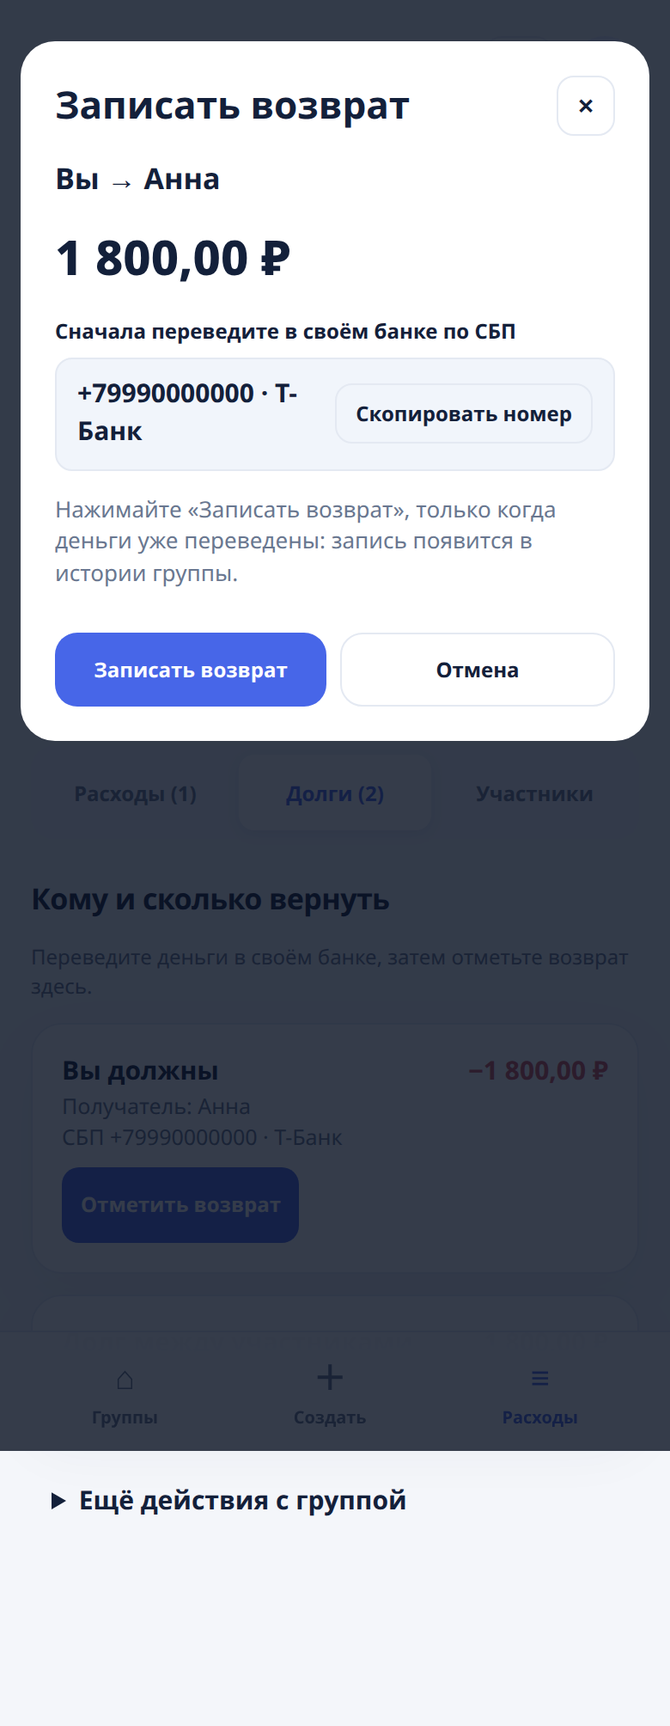
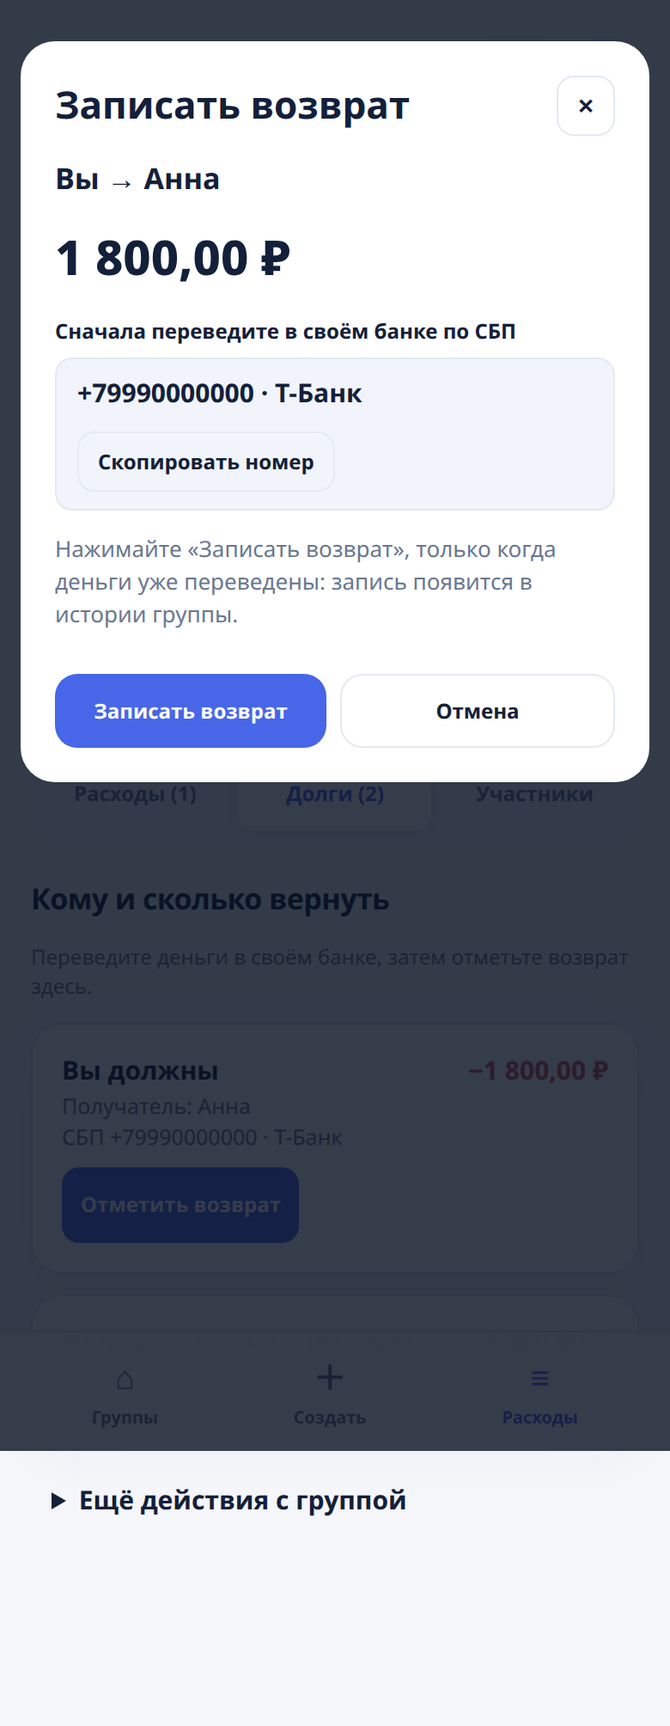
UX redesign round 6b: SBP block never breaks the number, DESIGN.md + README
The SBP phone number broke mid-way (overflow-wrap:anywhere): 3 lines
at 320 px, 2 at 390 px, the copy button squeezing beside it. .settle-sbp
now wraps (flex-wrap:wrap) and the number is nowrap, so when the button
does not fit beside the number it goes to its own line — at 320 and at
390 px alike. Theme tokens untouched; system Back + focus return
re-checked at 320 px (Telegram simulation). Older settle-modal frames
(26/33/39/42/44/45) re-saved with the new layout. README gains the
'Shestoy zakhod' section (full-field verification, FX tolerance, demo
hooks, checks, honest gaps, phone steps); DESIGN.md: R10/R11, §11.2
round-6 results. Checks: shots-round6.mjs 77/77, shots-round6-tg.mjs
35/35; regressions 34/34, 35/35, 21/21, 37/37, 14/14, 51/51, 18/18.

Changed region(s): [[0.0308, 0.2161, 0.9846, 0.4631]]

diff --git a/web/style.css b/web/style.css
@@ -133,8 +133,12 @@ h1[tabindex='-1']:focus { outline: none; }
 /* Second pass (round 2): settle modal, balance addressee, error toasts. */
 .settle-route{font-size:17px;margin:0}
 .settle-amount{font-size:28px;font-weight:800;margin:0;font-variant-numeric:tabular-nums}
-.settle-sbp{display:flex;align-items:center;justify-content:space-between;gap:10px;background:#f0f4fb;border:1px solid #dae3f0;border-radius:10px;padding:10px 12px;font-weight:700;overflow-wrap:anywhere}
+.settle-sbp{display:flex;align-items:center;justify-content:space-between;gap:10px;flex-wrap:wrap;background:#f0f4fb;border:1px solid #dae3f0;border-radius:10px;padding:10px 12px;font-weight:700}
 .settle-sbp .btn{flex:none}
+/* Round 6: the SBP number never breaks mid-way (overflow-wrap:anywhere
+   removed); if the copy button does not fit beside it, it wraps to its
+   own line instead of squeezing the number. */
+.settle-sbp>span{white-space:nowrap}
 .settle-panel .form-hint{font-size:13px;color:#5a6b84}
 .metric .btn{margin-top:10px}
 .allocation-total{margin:8px 0 0;padding-top:8px;border-top:1px solid var(--border);font-size:13px;font-weight:700}

diff --git a/docs/ux-redesign/README.md b/docs/ux-redesign/README.md
@@ -627,3 +627,155 @@ node shots-round2.mjs        # регрессия: 34/34
   ложно блокировать подтверждение.
 - Строка 6 аудита второго мнения (имя/место уже состоящего участника)
   по-прежнему не доделывалась. Тексты бота не переносились.
+
+## Шестой заход — полная проверка сохранения, СБП на 320 px
+
+Снимает ограничение из 5-го захода: поля `notes`/`categoryId` и валютный
+пересчёт теперь сравниваются при проверке правки.
+
+### 1. Проверка правки — по всем сохраняемым полям
+
+В пятом заходе `expenseMatchesPayload` сравнивал только название, сумму,
+плательщика, `splitMode` и доли. Воспроизведённый дефект: меняется только
+комментарий, связь обрывается до записи — проверка находила запись по ID,
+сравниваемые поля совпадали, форма закрывалась с ложным «Трата сохранена»,
+а в хранилище оставался старый комментарий. То же было с категорией.
+
+Новая `expenseMatchDetail` (в `web/app.js`; `expenseMatchesPayload` —
+тонкая обёртка) сравнивает полный набор сохраняемых полей со снимком
+отправленного запроса (`S.uncheckedExpense`): название, сумму в копейках,
+плательщика, `splitMode`, доли (без учёта порядка), комментарий `notes`,
+`categoryId`, `originalCurrency`/`originalAmount`.
+
+- Значения по умолчанию: отсутствующие `notes`/`categoryId` считаются
+  `''`/`0` с обеих сторон, правка без них подтверждается как раньше.
+- Отсутствующее поле: отправлено непустое значение, а в ответе
+  `group_get` этого поля нет — результат «недостаёт поля», никогда не
+  подтверждение. Новый статус `lostUnverifiable`: «Проверить правку не
+  удалось: в ответе сервера нет поля «комментарий»», форма и введённые
+  данные остаются. Проверка не различает прежнюю версию без поля и ответ
+  сервера без поля — оба случая закрываются отказом от подтверждения.
+- Комментарий сравнивается с обрезкой пробелов по краям с обеих сторон
+  (принятая нормализация: серверы обычно обрезают свободный текст;
+  разница только в пробелах не должна вечно блокировать подтверждение).
+- Валютные данные: сервер пересчитывает сумму группы по своему курсу,
+  поэтому отправленные исходные значения (`originalAmount` +
+  `originalCurrency`) сравниваются точно и являются главными, а
+  сохранённая сумма принимается в пределах 1% (+2 копейки) от
+  отправленной. Без другой валюты сумма — прямое отправленное значение
+  и сравнивается строго. Известное ограничение: правка, меняющая только
+  сумму группы у валютной траты меньше чем на допуск, неотличима от
+  пересчёта сервера.
+- Передача `type`/`code` ошибок из пятого захода сохранена
+  (`isNetworkError`, обёртка `Serverless.call` не менялась).
+
+Демо-хуки (только в демо): `?demoMissingField=notes|categoryId|
+originalAmount|originalCurrency` — убирает поле из каждого ответа
+`group_get`; `?demoFxServer=1` — демо-«сервер» пересчитывает валютные
+траты по своему курсу (USD 89.5, EUR 96.2): 100.00 USD, отправленные
+как 9 000,00 ₽, хранятся как 8 950,00 ₽. В симуляции Telegram те же
+режимы — флаги `window.__tgFake.missingField` / `fxServer` /
+`serverlessFail` (`lostEditBefore` / `lostEditAfter`).
+
+### 2. Блок СБП на 320 px
+
+Номер разрывался посередине (`overflow-wrap:anywhere` на `.settle-sbp`):
+на 320 px номер занимал 3 строки, на 390 — 2. Исправлено в
+`web/style.css`: `flex-wrap:wrap` у блока, `white-space:nowrap` у номера,
+`overflow-wrap:anywhere` убрано. Если кнопка «Скопировать номер» не
+помещается рядом с номером, она переходит на отдельную строку — то же
+правило работает и на 390 px. Цвета блока не менялись (токены 5-го
+захода). Системный «Назад» и возврат фокуса перепроверены на 320 px
+(симуляция Telegram).
+
+### Скриншоты шестого захода
+
+- `before/47-sbp-320-*` и `before/47-sbp-390-light` — блок СБП до
+  исправления (номер в 2–3 строки); `after/47-sbp-320-*`,
+  `after/47-sbp-390-light` — после (номер одной строкой, кнопка
+  отдельной строкой); `after/47-tg-sbp-320-*` — то же через `themeParams`.
+- `after/46-notes-check-before-390-light` — проверка правки комментария
+  после обрыва до записи: статус «в ответе сервера нет поля
+  «комментарий»», форма открыта, новый комментарий в поле.
+- `after/46-missing-field-390-light` — ответ без поля при состоявшейся
+  записи: тот же статус, форма открыта.
+- `after/46-fx-server-amount-390-light` — подтверждённая валютная
+  правка: в форме хранимая сумма 8950.00 ₽ при исходных 100.00 USD,
+  тост «Трата сохранена».
+
+### Проверки шестого захода
+
+```text
+# сборка (до/после каждого коммита):
+npm run build
+# сервер (из корня репозитория, после npm run build):
+python -m http.server 8000 --bind 127.0.0.1 --directory dist
+# из ~/workspace/spleet-shots/ (Chromium headless shell 1187):
+node shots-round6.mjs        # демо: 77/77
+node shots-round6-tg.mjs     # симуляция Telegram: 35/35
+node shots-round5.mjs        # регрессия: 51/51
+node shots-round5-tg.mjs     # регрессия: 18/18
+node shots-round4.mjs        # регрессия: 37/37
+node shots-round4-tg.mjs     # регрессия: 14/14
+node shots-round3.mjs        # регрессия: 35/35
+node shots-round3-tg.mjs     # регрессия: 21/21
+node shots-round2.mjs        # регрессия: 34/34
+```
+
+Дефекты сначала воспроизведены проверками на неисправленном коде:
+демо 51/77, симуляция 20/35. Демо: комментарий до записи ×4, категория
+до записи ×3, валютная правка после записи при серверной сумме ×4,
+ответ без поля ×10 (комментарий ×6, категория ×4), блок СБП ×5.
+Симуляция: комментарий до записи ×3, ответ без поля ×4, валютная правка
+×4, блок СБП ×4. После исправлений — все зелёные. Три ошибки найдены в
+самих проверках, а не в коде, и исправлены в скриптах до записи
+результатов: чтение полей падало с 30-секундным таймаутом, когда форма
+была закрыта ложным подтверждением (теперь чтение через `evaluate` с
+`null` при отсутствии); ожидание списка после проверки бросало
+исключение при отказе подтвердить (теперь допуск); `norm()` вызывался
+внутри `page.evaluate`, где его нет (нормализация перенесена в Node).
+В каждом прогоне единственная ошибка консоли — 404 `/favicon.ico`
+(было и до).
+
+Замечено при воспроизведении: обрыв до записи у валютной траты ловился
+ещё старой проверкой — через строгое сравнение суммы группы (5 400,00 ₽
+против отправленных 9 000,00 ₽). Дефект валютного сценария — ложный
+отказ после записи при серверной сумме, а не ложное подтверждение.
+
+### Что честно не сделано в шестом заходе
+
+- Реальный WebView не проверялся (нет телефона в этой сессии) — см.
+  шаги ручной проверки ниже. Обёртка `Serverless.call` проверена через
+  фейковый `Serverless` в симуляции, а не через настоящий сервер
+  Telegram; демо-«сервер» хранит запрос почти дословно (кроме хука
+  `demoFxServer`), настоящий сервер не вызывался.
+- Допуск 1% для суммы валютной траты и обрезка пробелов комментария —
+  принятые нормализации, а не измеренное поведение настоящего сервера.
+  Если реальный курс сервера отличается от клиентского больше чем на 1%,
+  валютные правки останутся неподтверждёнными (форма открыта, повторная
+  отправка не поможет — допуск придётся поднять). Если сервер трактует
+  `categoryId: 0` или пустой `notes` как «оставить прежнее», правки,
+  ставящие «Прочее» или очищающие комментарий, тоже останутся
+  неподтверждёнными: проверка исходит из того, что сервер хранит
+  отправленное значение дословно, как демо-адаптер.
+- Правка, меняющая только сумму группы у валютной траты меньше чем на
+  1%, неотличима от пересчёта сервера и подтверждается в пределах
+  допуска (см. §1).
+- Строка 6 аудита второго мнения (имя/место уже состоящего участника)
+  по-прежнему не доделывалась. Тексты бота не переносились.
+
+### Ручная проверка на телефоне (реальный WebView, 6-й заход)
+
+Шаги из 3-го захода плюс новые случаи (всё на тестовой группе):
+
+1. Откройте трату «Ужин у моря», добавьте комментарий, включите
+   авиарежим, нажмите «Сохранить изменения», затем «Проверить,
+   сохранилась ли трата»: форма остаётся открытой, сообщения об успехе
+   нет, комментарий в поле сохранён.
+2. То же с категорией (выберите «Еда и кафе») и с другой валютой
+   (100.00 USD, сумма 9 000,00 ₽): после обрыва до записи форма
+   остаётся открытой.
+3. Откройте окно возврата на 320 px в светлой и тёмной теме: номер СБП
+   одной строкой, кнопка «Скопировать номер» — отдельной строкой.
+4. В окне возврата нажмите системную «Назад»: окно закрывается, фокус
+   возвращается на кнопку «Рассчитаться», запись не создаётся.

diff --git a/docs/ux-redesign/DESIGN.md b/docs/ux-redesign/DESIGN.md
@@ -140,7 +140,7 @@ Safe-area: `max(env(safe-area-inset-*), var(--tg-inset-*))` для `.page` и `.
 
 Решения захода, зафиксированные в этом файле:
 
-- **Проверка сохранения — по содержимому, не по ID** (§5): `expenseMatchesPayload` сравнивает название, сумму в копейках, плательщика, `splitMode` и доли по участникам (без учёта порядка). Найдена старая версия — новый статус «прежняя версия», форма остаётся открытой. Неподтверждённый результат всегда трактуется как неподтверждённый, а не как успех.
+- **Проверка сохранения — по содержимому, не по ID** (§5): `expenseMatchDetail` сравнивает полный набор сохраняемых полей со снимком отправленного запроса: название, сумму в копейках, плательщика, `splitMode`, доли (без учёта порядка), комментарий `notes` (с обрезкой пробелов), `categoryId` (0 по умолчанию), `originalCurrency`/`originalAmount`. Отсутствующее в ответе поле — неподтверждённый результат, никогда не подтверждение (новый статус «не удалось проверить: нет поля»). Сумма валютной траты допускается с отклонением до 1% (+2 копейки) от отправленной, так как сервер пересчитывает её по своему курсу; без другой валюты сумма сравнивается строго. Найдена старая версия — статус «прежняя версия», форма остаётся открытой. Неподтверждённый результат всегда трактуется как неподтверждённый, а не как успех.
 - **Сетевой сбой — по типу ошибки, не по тексту** (§5): обёртка `Serverless.call` передаёт `type`/`code` в обработчик; `isNetworkError` смотрит на них в первую очередь, совпадение по тексту — только fallback. Локализованный «Связь прервана» показывает «Не удалось проверить…», а не «Трата не сохранена».
 - **Сумма — неделимое целое** (§3): NBSP перед валютой в `money()`/`signedMoney()` + `.sum` (`white-space:nowrap`) в строке «Ваша доля». Длинное название и крупная сумма (1 234 567,89 ₽) проверены на 320 и 390 px; кнопка «Изменить» остаётся видимой и фокусируемой.
 - **Окно возврата — в теме** (§5): панель, блок СБП и хинт привязаны к токенам; в тёмной теме панель тёмная (`#192536`), блок СБП — `#202c3c`. Системный «Назад» и возврат фокуса перепроверены.
@@ -164,20 +164,24 @@ Safe-area: `max(env(safe-area-inset-*), var(--tg-inset-*))` для `.page` и `.
 | R7 | Цвета — только через токены §1; градиент — только фон hero/аналитики/приглашения | §1, §6 |
 | R8 | Демо-приглашение — синтетический сценарий, не настоящий join-поток | §5, §10 |
 | R9 | Никаких WebGL/частиц/стекла на экранах денег | §0.1, §6 |
+| R10 | Отсутствующее в ответе поле — неподтверждённый результат, а не успех; сумма валютной траты допускается с отклонением до 1% от отправленной | §5, §10 |
+| R11 | Номер СБП — неделимое целое: не разрывается посередине; кнопка копирования уходит на отдельную строку, если рядом не помещается | §5 |
 
-### 11.2 Подтверждённые проверки (2026-11-05, 5-й заход)
+### 11.2 Подтверждённые проверки (2026-11-05, 6-й заход)
 
-Запуск: `npm run build`, затем `python -m http.server 8000 --bind 127.0.0.1 --directory dist`, скрипты из `~/workspace/spleet-shots/`. Единственная ошибка консоли во всех прогонах — предсуществующий 404 `/favicon.ico`.
+Запуск: `npm run build`, затем `python -m http.server 8000 --bind 127.0.0.1 --directory dist`, скрипты из `~/workspace/spleet-shots/`. Единственная ошибка консоли во всех прогонах — предсуществующий 404 `/favicon.ico`. Дефекты воспроизведены на неисправленном коде: демо 51/77, симуляция Telegram 20/35.
 
 | Проверка | Команда | Результат |
 |---|---|---|
-| Демо: дефекты сохранения + визуал | `node shots-round5.mjs` | 51/51 |
-| Симуляция Telegram: обёртка Serverless + Back + тема | `node shots-round5-tg.mjs` | 18/18 |
-| Регрессия 2-го захода | `node shots-round2.mjs` | 34/34 |
-| Регрессия 3-го захода (демо) | `node shots-round3.mjs` | 35/35 |
-| Регрессия 3-го захода (TG) | `node shots-round3-tg.mjs` | 21/21 |
+| Демо: полная проверка сохранения + СБП 320 px | `node shots-round6.mjs` | 77/77 |
+| Симуляция Telegram: проверка через обёртку + СБП 320 px + Back | `node shots-round6-tg.mjs` | 35/35 |
+| Регрессия 5-го захода (демо) | `node shots-round5.mjs` | 51/51 |
+| Регрессия 5-го захода (TG) | `node shots-round5-tg.mjs` | 18/18 |
 | Регрессия 4-го захода (демо) | `node shots-round4.mjs` | 37/37 |
 | Регрессия 4-го захода (TG) | `node shots-round4-tg.mjs` | 14/14 |
+| Регрессия 3-го захода (демо) | `node shots-round3.mjs` | 35/35 |
+| Регрессия 3-го захода (TG) | `node shots-round3-tg.mjs` | 21/21 |
+| Регрессия 2-го захода | `node shots-round2.mjs` | 34/34 |
 | Реальный WebView на телефоне | — | НЕ ПРОВЕРЕН — только демо-переключатель и симуляция; шаги ручной проверки — в `docs/ux-redesign/README.md` |
 
-Скриншоты 5-го захода: `docs/ux-redesign/after/` 43–45, `before/` 43–44 (до/после на 320/390 px, светлая + тёмная тема). Кадры: 43 — история с длинным названием и крупной суммой; 44 — окно возврата в обеих темах; 45 — проверка правки (прежняя версия) и тёмная модалка через `themeParams`.
+Скриншоты 6-го захода: `docs/ux-redesign/after/` 46–47, `before/` 47 (до/после на 320/390 px, светлая + тёмная тема). Кадры: 46 — проверка правки (комментарий до записи, ответ без поля, валютная сумма сервера); 47 — блок СБП на 320 px в обеих темах (демо + `themeParams`).
